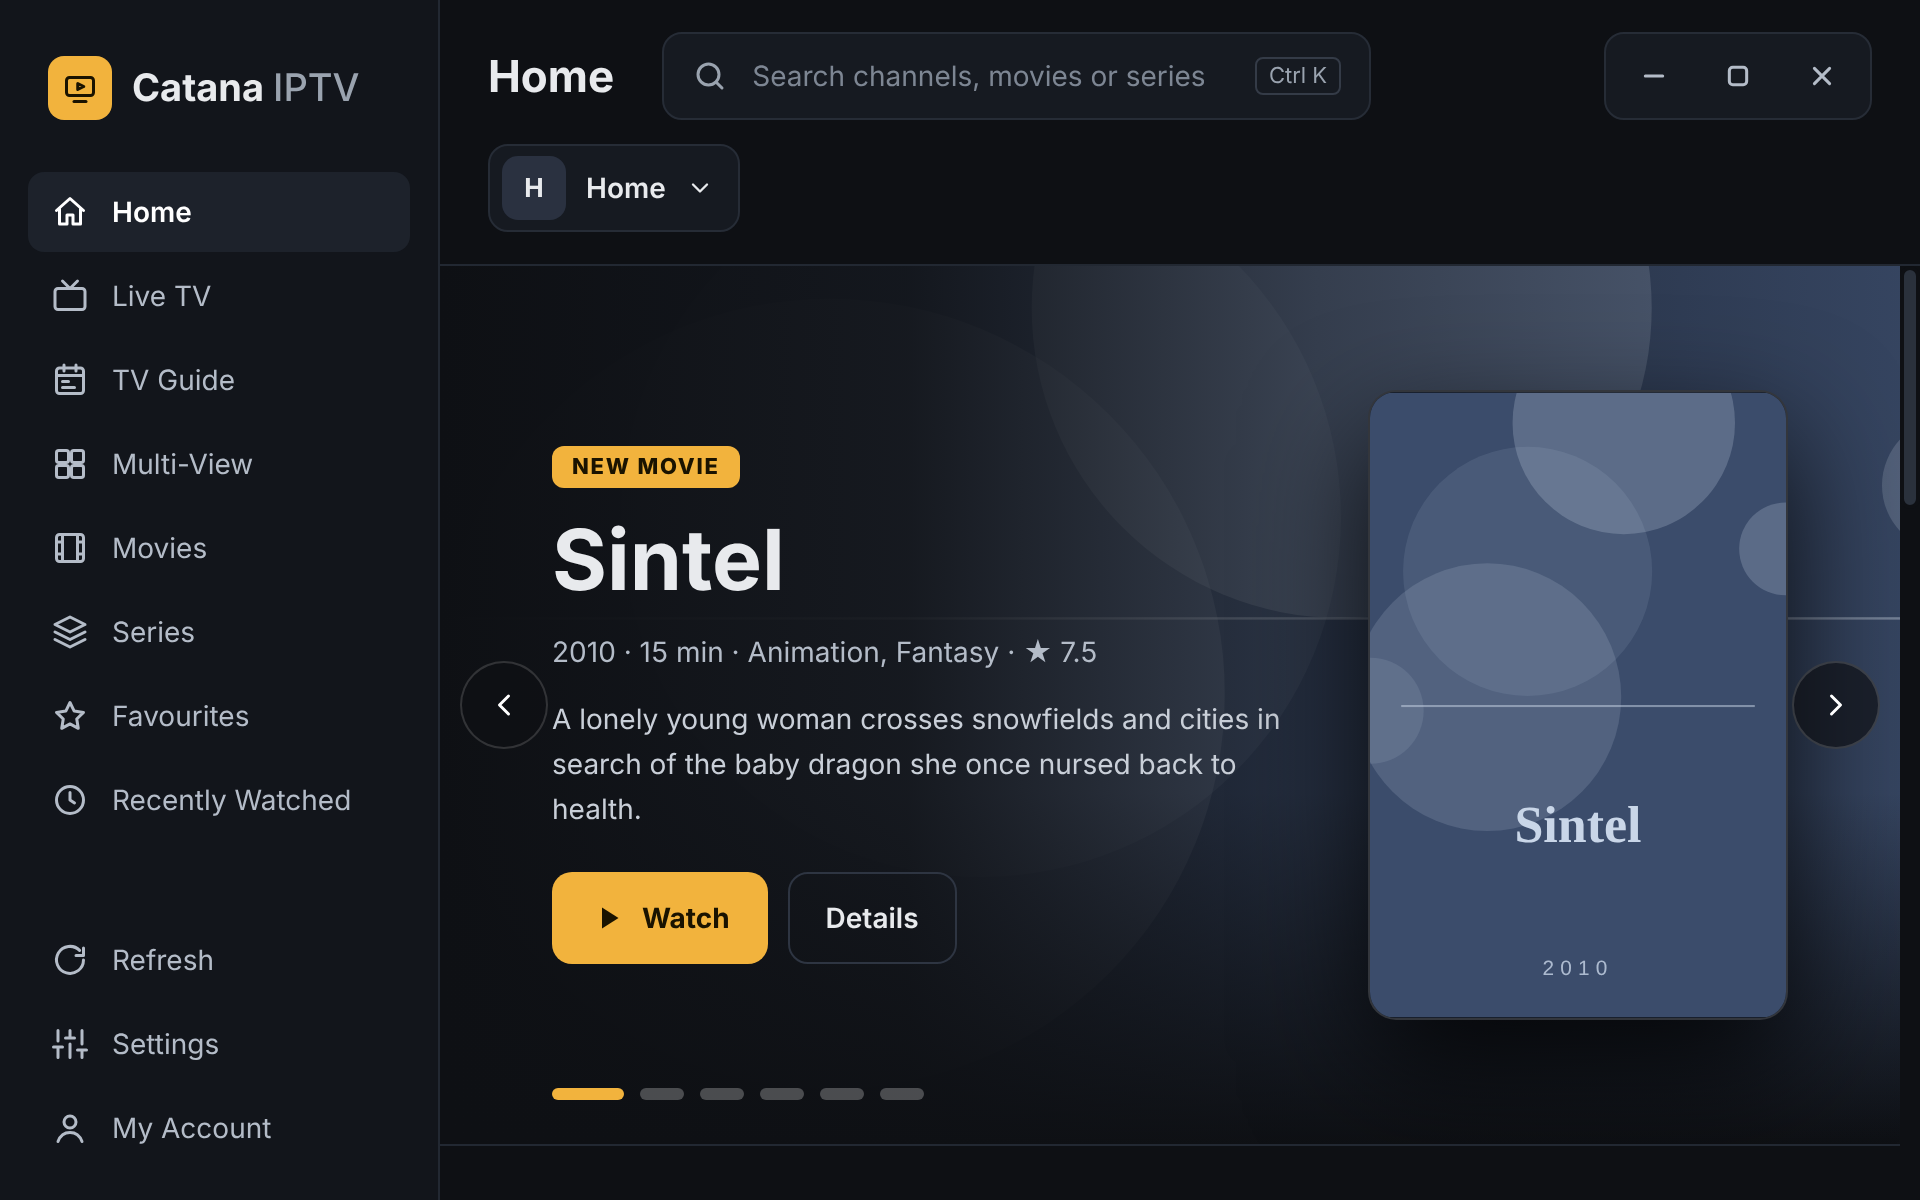
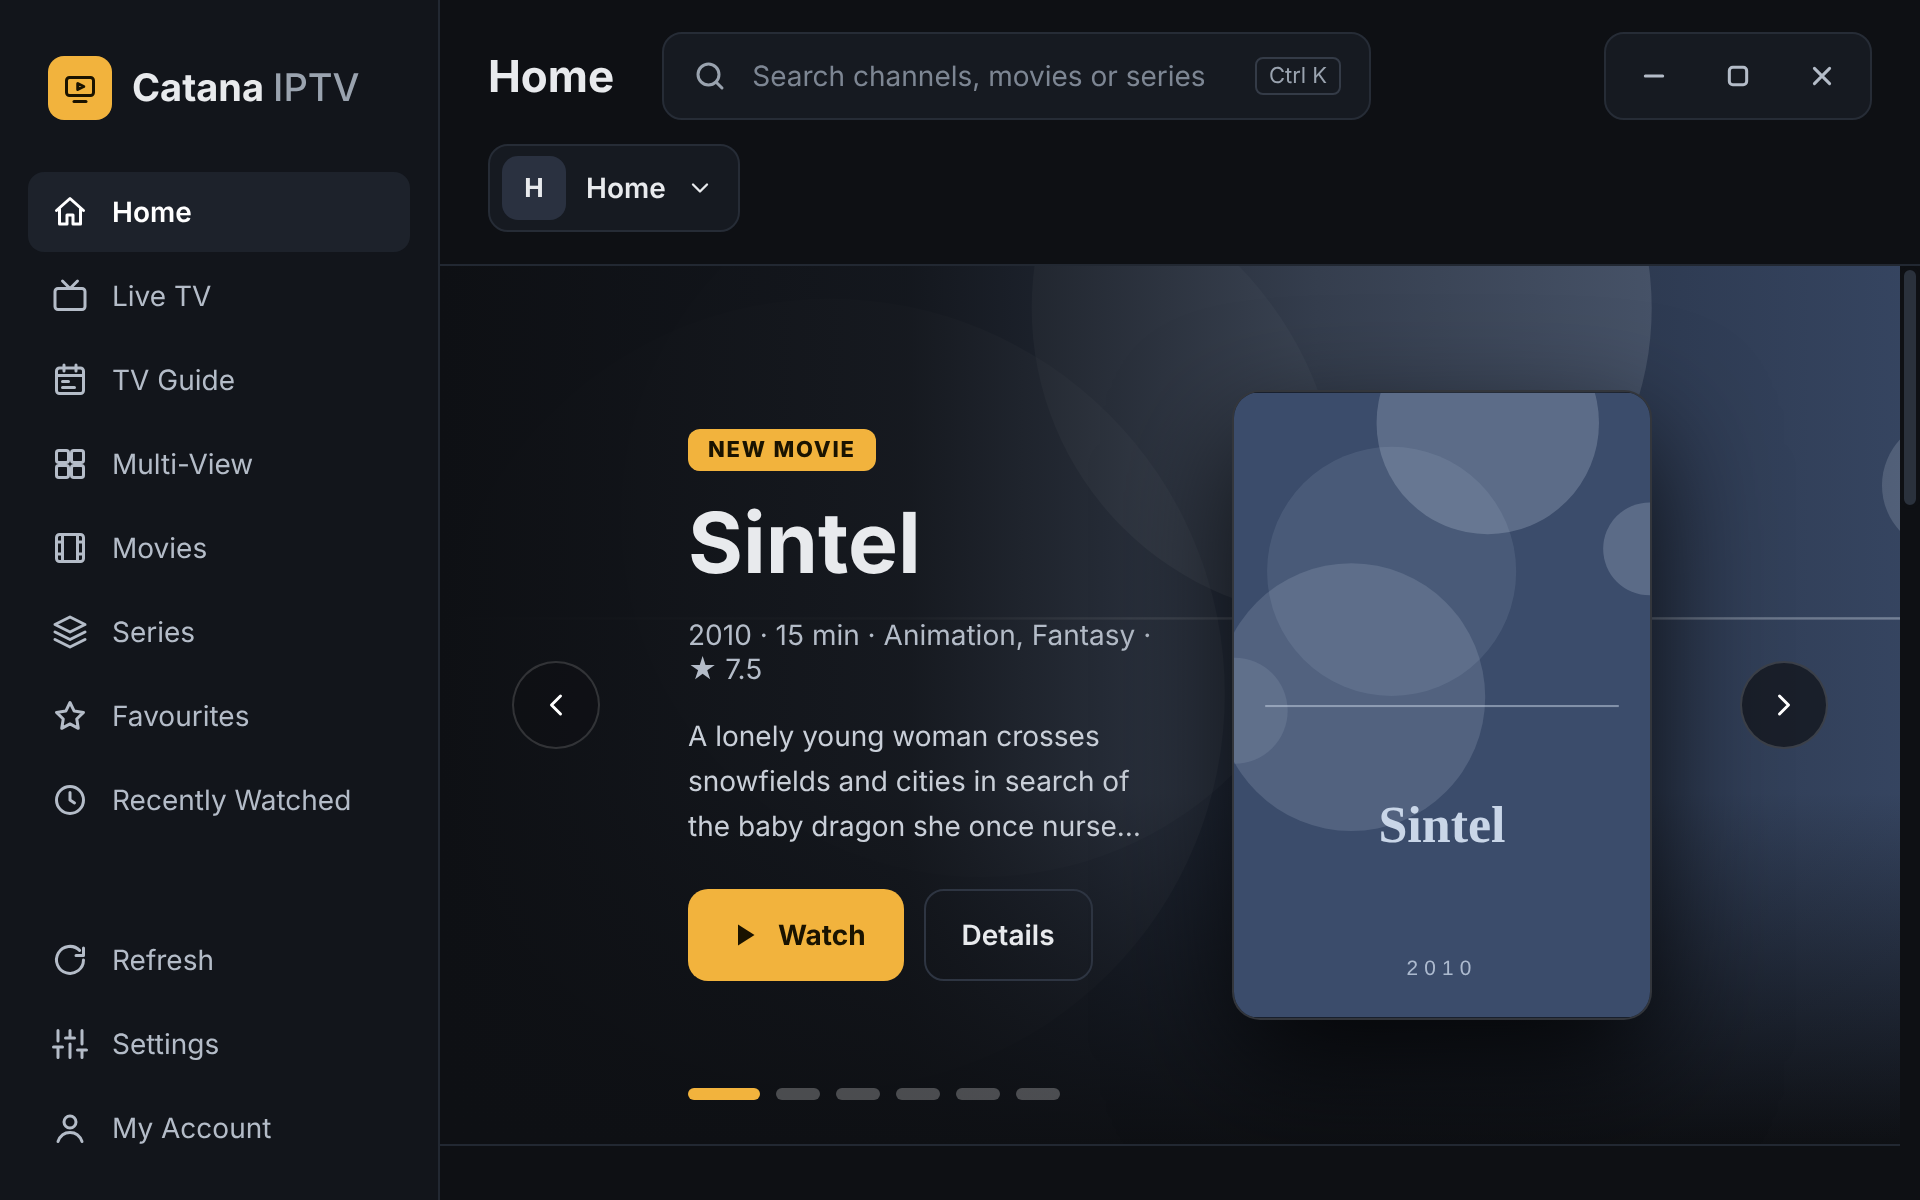
More space around home slider arrows; v1.6.3
Claude-Session: https://claude.ai/code/session_01PUMCCVgVWLdA2JmvuGyicP

diff --git a/src/style.css b/src/style.css
@@ -330,7 +330,7 @@ body > .video-wrap { display: none; }
 .hero-bg { position: absolute; inset: 0; background-size: cover; background-position: center 25%; transition: opacity .6s; }
 .hero-bg.blur { filter: blur(28px) brightness(.55); transform: scale(1.15); }
 .hero-shade { position: absolute; inset: 0; background: linear-gradient(90deg, #0E1014 0%, #0E1014E6 32%, #0E101480 60%, #0E101420 100%), linear-gradient(0deg, #0E1014 0%, #0E101400 40%); }
-.hero-content { position: absolute; left: 0; right: 0; bottom: 0; top: 0; display: flex; align-items: center; gap: 40px; padding: 40px 56px; }
+.hero-content { position: absolute; left: 0; right: 0; bottom: 0; top: 0; display: flex; align-items: center; gap: 40px; padding: 40px 124px; }
 .hero-text { flex: 1; min-width: 0; max-width: 640px; display: flex; flex-direction: column; gap: 14px; }
 .hero-tag { align-self: flex-start; padding: 4px 10px; border-radius: 6px; background: var(--accent); color: var(--on-accent); font-size: 11px; font-weight: 800; letter-spacing: .08em; text-transform: uppercase; }
 .hero-title { margin: 0; font-family: "Space Grotesk", Inter, sans-serif; font-size: 42px; line-height: 1.08; font-weight: 700; }
@@ -341,8 +341,8 @@ body > .video-wrap { display: none; }
 .hero-poster img { width: 100%; height: 100%; object-fit: cover; }
 .hero-nav { position: absolute; top: 50%; transform: translateY(-50%); width: 44px; height: 44px; border-radius: 22px; border: 1px solid #ffffff26; background: #0E1014B0; color: #fff; display: flex; align-items: center; justify-content: center; z-index: 2; }
 .hero-nav:hover { background: #1D222B; }
-.hero-nav.prev { left: 10px; } .hero-nav.next { right: 10px; }
-.hero-dots { position: absolute; left: 56px; bottom: 22px; display: flex; gap: 8px; z-index: 2; }
+.hero-nav.prev { left: 36px; } .hero-nav.next { right: 36px; }
+.hero-dots { position: absolute; left: 124px; bottom: 22px; display: flex; gap: 8px; z-index: 2; }
 .hero-dots button { width: 22px; height: 6px; border-radius: 3px; border: 0; padding: 0; background: #ffffff40; }
 .hero-dots button.active { width: 36px; background: var(--accent); }
 .hrow { display: flex; gap: 16px; overflow-x: auto; padding-bottom: 8px; margin-bottom: 28px; scroll-behavior: smooth; }

diff --git a/CHANGELOG.md b/CHANGELOG.md
@@ -1,5 +1,8 @@
 # Changelog
 
+## 1.6.3
+- Home slider: more space around the previous/next arrows
+
 ## 1.6.2
 - Window controls line up with the search bar and match its height and style
 
